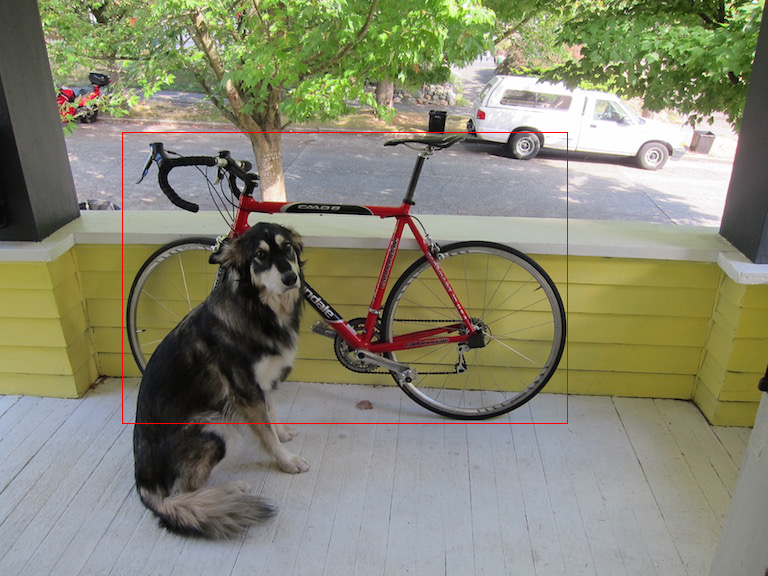
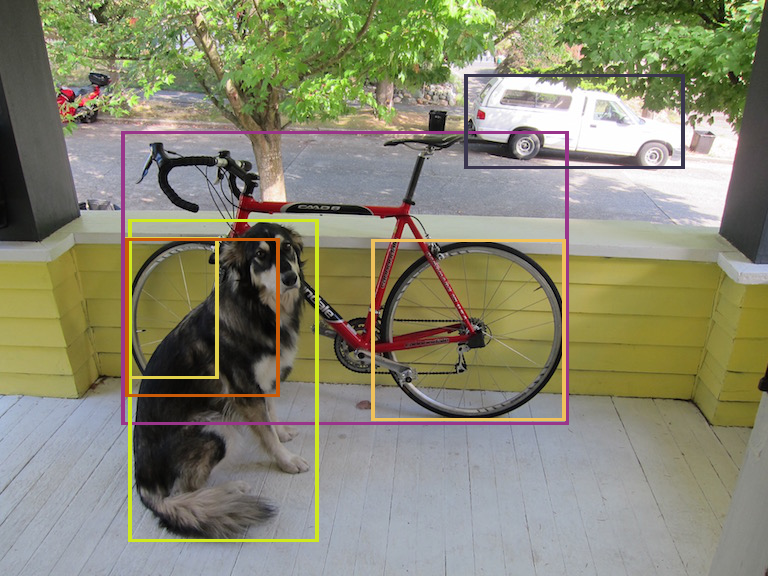
API geliştirildi. Resim üzeri çizim yapılıyor.

Changed region(s): [[0.1562, 0.125, 0.9062, 0.9375], [0.1875, 0.9375, 0.4062, 0.9688]]

diff --git a/VisionAPI/application.php b/VisionAPI/application.php
@@ -3,66 +3,71 @@ require 'vendor/autoload.php';
 use Google\Cloud\Vision\VisionClient;
 class Application 
 {
+
+    private $NewImagePath = "";
+    private $BaseUrl = "http://localhost/ObjectDetection/VisionAPI/";
+    private $ImagePath = "normalImages/images5.jpg";
+
+
     public function ObjectDetection()
     {
         
 
         $vision = new VisionClient(['keyFile' => json_decode(file_get_contents("key.json"),true)]);
-        $dog = fopen("dog.jpg",'r');
+        $dog = fopen($this->ImagePath,'r');
         $img = $vision->image($dog,['OBJECT_LOCALIZATION']);
         $objects = $vision->annotate($img);
         $info = $objects->info();
         $objectsDetail = $info['localizedObjectAnnotations'];
-        //$this->PrintObject($objectsDetail);
         $AllCords = $this->AllCords($objectsDetail);
-
-        foreach ($AllCords as $cord){
-            //TODO: Kodları al ve en küçüklerini bul....
-            echo "<br>";
+        $drawObjectsCords = array();
+        $objectName = array();
+        foreach ($AllCords as $objectCords){
+            array_push($drawObjectsCords,$this->MaxMinCords($objectCords));
         }
+        $colorAndTitle = $this->ImageTitlePush($this->ImageDraw($this->ImagePath,$drawObjectsCords),$this->ObjectNameDetected($objectsDetail));
 
-       // echo "Tespit Edilen Nesne Sayısı: ".$this->GetCount($objectsDetail);
+        $result = Array();
+        array_push($result,Array(
+            "path"  => $this->BaseUrl.$this->NewImagePath,
+            "detail" => $colorAndTitle
+        ));
+        $json = json_encode($result);
+        return $json;
 
-        /*
-         *
-        $image_info = getimagesize("dog.jpg");
-        $W  = $image_info[0];
-        $H  = $image_info[1];
-        $X1 = $W * 0.1589591;
-        $X2 =$W *0.73859626;
-        $X3 =$W *0.73859626;
-        $X4 =$W *0.1589591;
-        $Y1 = $H *0.22967617;
-        $Y2 = $H *0.22967617;
-        $Y3 = $H *0.7350759;
-        $Y4 = $H *0.7350759;
-        $cords = array(
-            "0" =>  array(
-                "x"=> $X1,
-                "y"=> $Y1,
-            ),
-            "1" =>  array(
-                "x"=> $X2,
-                "y"=> $Y2,
-            ),
-            "2" =>  array(
-                "x"=> $X3,
-                "y"=> $Y3,
-            ),
-            "3" =>  array(
-                "x"=> $X4,
-                "y"=> $Y4,
-            )
-        );
 
-        $this->ImageDraw("dog.jpg",$this->MaxMinCords($cords));
-         */
 
 }
+    private function ImageTitlePush($ImageResult,$ObjectDetectedNames){
+        $AllData = Array();
+        for($i = 0; $i< count($ObjectDetectedNames);$i++){
+            array_push($AllData,array(
+                "title" => $ObjectDetectedNames[$i],
+                "red"   => $ImageResult["colorPalete"][$i]["red"],
+                "green"   => $ImageResult["colorPalete"][$i]["green"],
+                "blue"   => $ImageResult["colorPalete"][$i]["blue"],
+            ));
+        }
+        return $AllData;
+    }
+    private function ObjectNameDetected(Array $objectsDetails)
+   {
+       $objectsName = Array();
+       foreach ($objectsDetails as $detail){
+           array_push($objectsName,$detail['name']);
+       }
 
-    private function GetCount(Array $objectsDetail = null)
-    {
-        return count($objectsDetail);
+       return $objectsName;
+   }
+    private function MaxMinCords(Array $cords){
+        $drawCords = array(
+            "minX" => $this->MinSearch($cords['X']),
+            "minY" => $this->MinSearch($cords['Y']),
+            "maxX" => $this->MaxSearch($cords['X']),
+            "maxY" => $this->MaxSearch($cords['Y']),
+
+        );
+        return $drawCords;
     }
     private function AllCords($objectsDetails){
 
@@ -100,25 +105,48 @@ class Application
             echo "#################################</br>";
         }
     }
-
     private function ImageDraw($path = "",Array $cords)
     {
-        var_dump($cords,$path);
-        /*
-        $image_info = getimagesize("dog.jpg");
+
+
+        $image_info = getimagesize($this->ImagePath);
         $W  = $image_info[0];
         $H  = $image_info[1];
+        $clouds = imagecreatefromjpeg($this->ImagePath);
+        imagesetthickness($clouds, 3); //Kalem kalınlığı
 
-        $clouds = imagecreatefromjpeg('dog.jpg');
-        $randColor   = imagecolorallocate($clouds, rand(0,255), rand(0,255), rand(0,255));
-        imagerectangle($clouds, 122.0805888, 132.29347392, 567.24192768, 423.4037184, $randColor);
-        imagepng($clouds,"file.png");
+        $colorPalete = array();
+        foreach ($cords as $key=> $cord){
+            $cord["minX"] =$cord["minX"] * $W;
+            $cord["minY"] =$cord["minY"] * $H;
+            $cord["maxX"] =$cord["maxX"] * $W;
+            $cord["maxY"] =$cord["maxY"] * $H;
+            $Red    = rand(0,255);
+            $Green  = rand(0,255);
+            $Blue   = rand(0,255);
+            $randColor   = imagecolorallocate($clouds, $Red , $Green, $Blue);
+            imagerectangle($clouds,  $cord["minX"],  $cord["minY"], $cord["maxX"], $cord["maxY"], $randColor);
+            imagestring($clouds, 5, ($cord["minX"] + $cord["maxX"]) / 2, $cord["minY"], $key , $randColor);
+            array_push($colorPalete,Array(
+                "red"   => $Red,
+                "green" => $Green,
+                "blue"  => $Blue
+            ));
+        }
+        $uniqName = uniqid();
+        $imagePath = "detectedImages/".$uniqName.".png";
+        imagepng($clouds,$imagePath);
         imagedestroy($clouds);
-        */
-       
+
+        $result = array(
+            "colorPalete"   => $colorPalete
+        );
+
+       $this->NewImagePath = $imagePath;
+       return $result;
+
+
     }
-
-
     private  function MinSearch(Array $cords){
         $min = 99999999999999;
         for($i = 0; $i < count($cords);$i++){
@@ -138,4 +166,6 @@ class Application
     }
 
 }
+
+
 

diff --git a/VisionAPI/init.php b/VisionAPI/init.php
@@ -7,5 +7,23 @@ require_once('Application.php');
 
 
 $app = new application;
-$app->ObjectDetection();
-//$app->ImageDraw();
+$result = $app->ObjectDetection();
+$data = json_decode($result);
+?>
+<!doctype html>
+<html lang="en">
+<head>
+    <meta charset="UTF-8">
+    <meta name="viewport"
+          content="width=device-width, user-scalable=no, initial-scale=1.0, maximum-scale=1.0, minimum-scale=1.0">
+    <meta http-equiv="X-UA-Compatible" content="ie=edge">
+    <title>Document</title>
+</head>
+<body>
+<?php foreach ($data[0]->detail as $detail){ ?>
+    <p style="font-weight: 700;color: rgb(<?=$detail->red?>,<?=$detail->green?>,<?=$detail->blue?>)"><?=$detail->title?></p>
+<?php } ?>
+    <img src="<?=$data[0]->path?>"></img>
+
+</body>
+</html>
